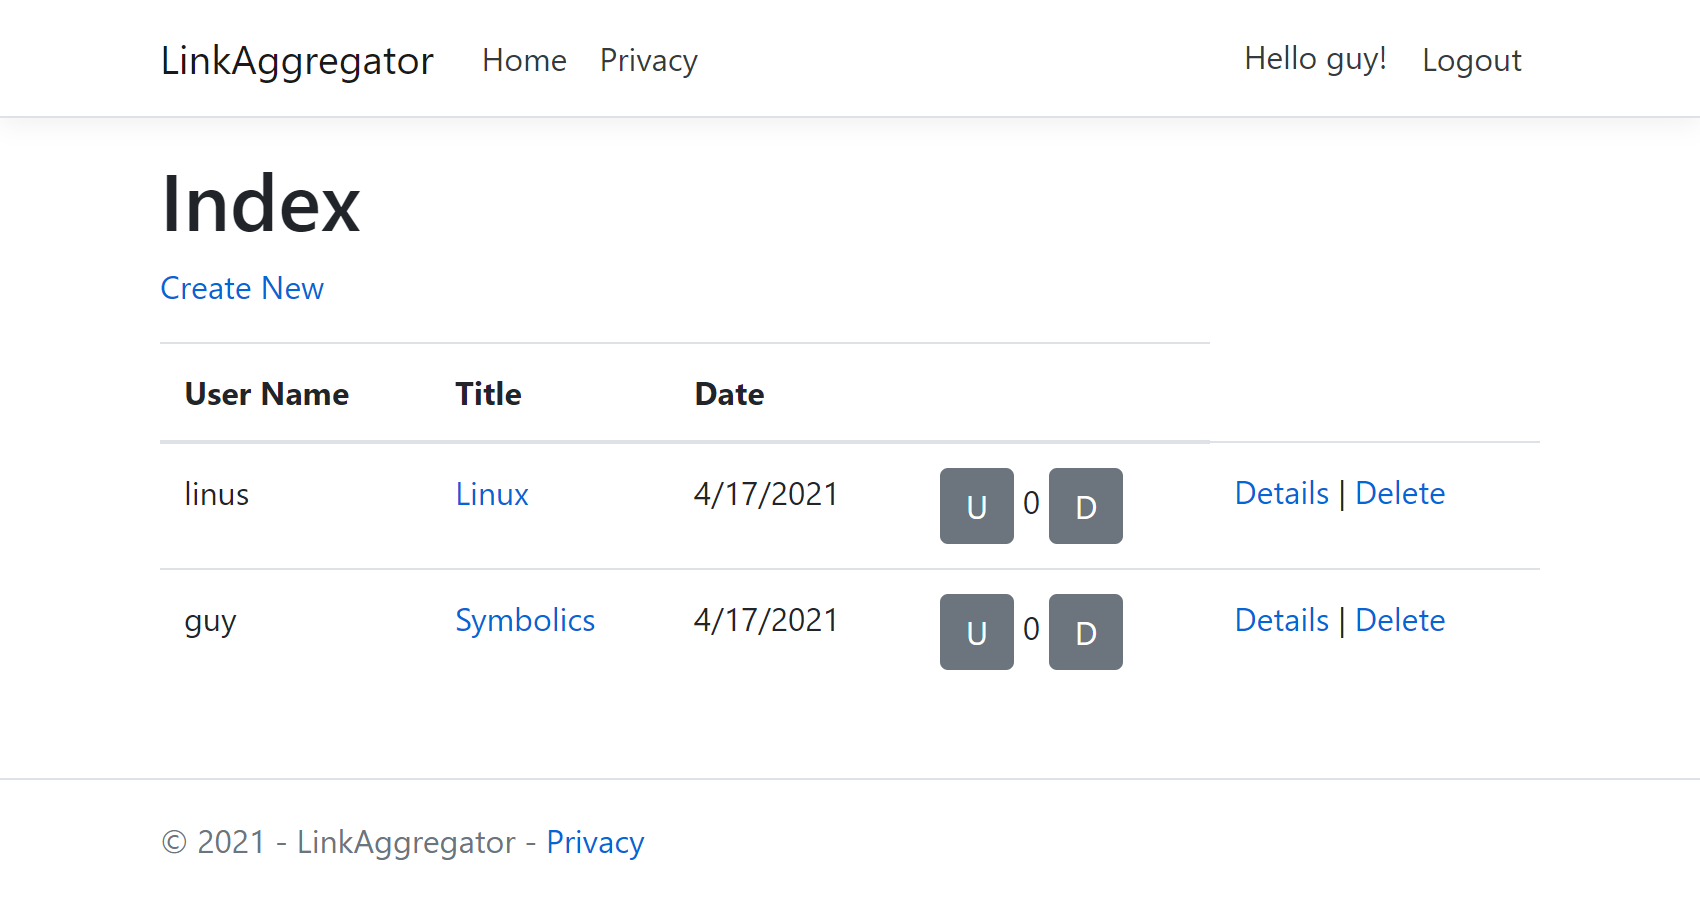
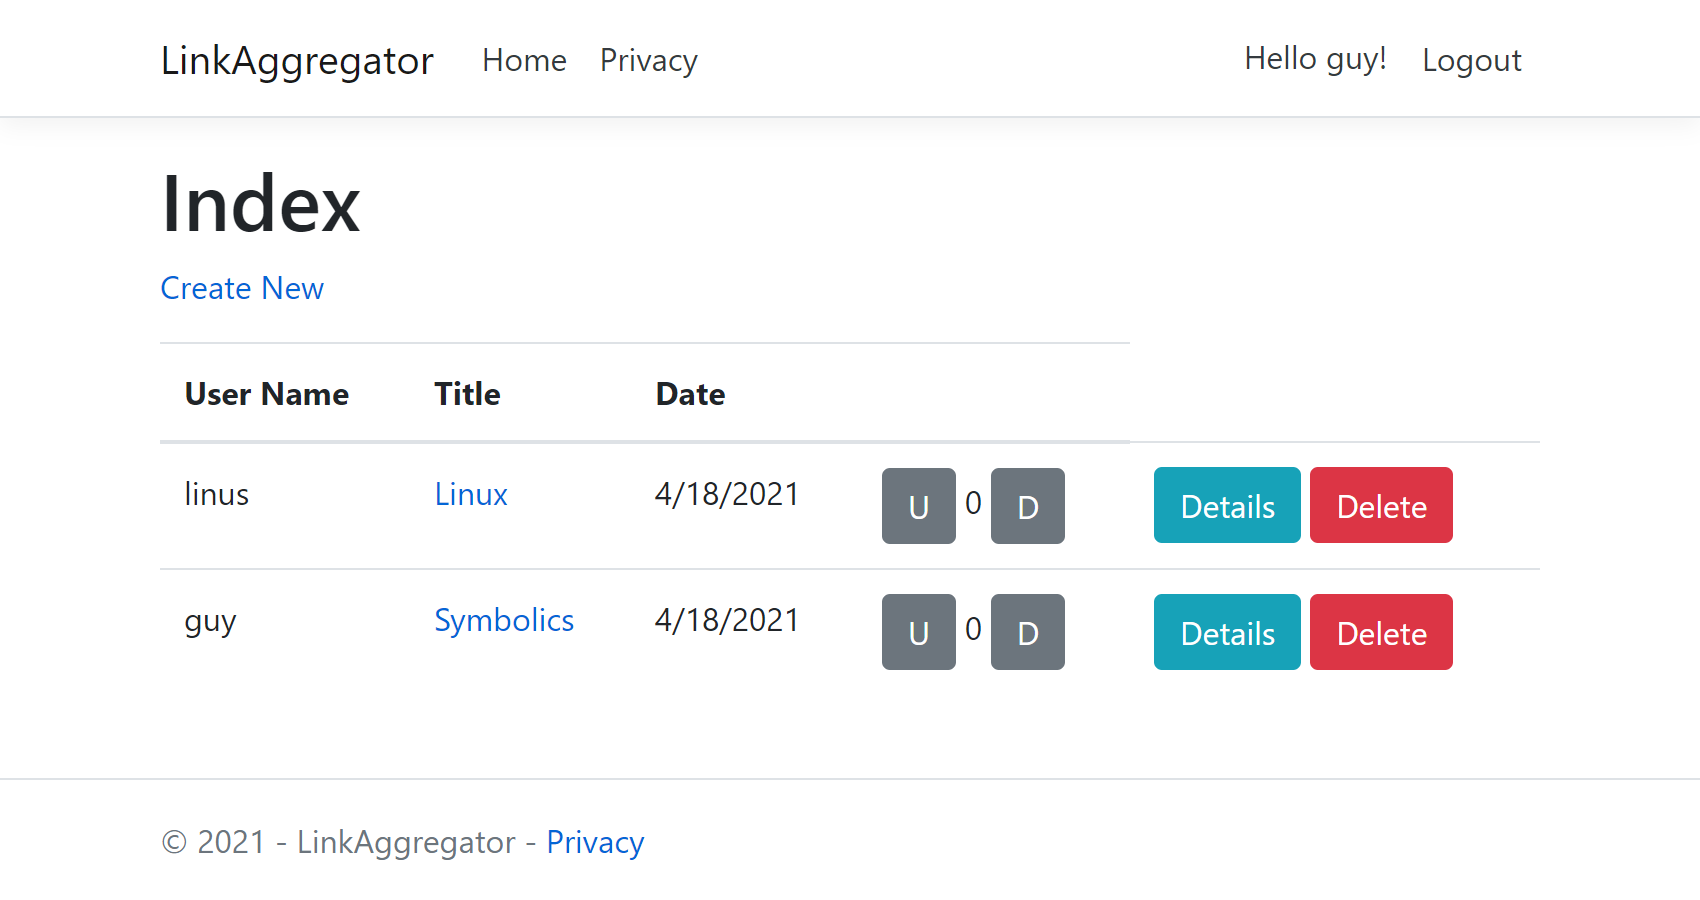
Style buttons

diff --git a/LinkAggregatorTutorial.md b/LinkAggregatorTutorial.md
@@ -1196,6 +1196,97 @@ index 320174c..a52f0a9 100644
 ```
 
     git add . ; git commit --message 'Pages\Links\Index.cshtml - indicate if user voted'
+
+----------------------------------------------------------------------
+
+# Editing links
+
+Some link aggregation sites do not allow users to edit links after they've been submitted.
+Let's set this up now.
+
+Let's make it so that POST submissions for editing are ignored:
+
+```diff 
+diff --git a/Pages/Links/Edit.cshtml.cs b/Pages/Links/Edit.cshtml.cs
+index 5b66d5f..e1d35ee 100644
+--- a/Pages/Links/Edit.cshtml.cs
++++ b/Pages/Links/Edit.cshtml.cs
+@@ -43,6 +43,8 @@ namespace LinkAggregator.Pages.Links
+         // For more details, see https://aka.ms/RazorPagesCRUD.
+         public async Task<IActionResult> OnPostAsync()
+         {
++            return RedirectToPage("./Index");
++
+             if (!ModelState.IsValid)
+             {
+                 return Page();
+
+```
+
+With the following change, if the user access the 'Edit' endpoint, they'll be redirected to the index page:
+
+```diff 
+diff --git a/Pages/Links/Edit.cshtml.cs b/Pages/Links/Edit.cshtml.cs
+index 5b66d5f..443a79a 100644
+--- a/Pages/Links/Edit.cshtml.cs
++++ b/Pages/Links/Edit.cshtml.cs
+@@ -25,6 +25,8 @@ namespace LinkAggregator.Pages.Links
+ 
+         public async Task<IActionResult> OnGetAsync(int? id)
+         {
++            return RedirectToPage("./Index");
++
+             if (id == null)
+             {
+                 return NotFound();
+
+```
+
+Finally, let's remove the 'Edit' link
+
+```diff 
+diff --git a/Pages/Links/Index.cshtml b/Pages/Links/Index.cshtml
+index a52f0a9..6c58122 100644
+--- a/Pages/Links/Index.cshtml
++++ b/Pages/Links/Index.cshtml
+@@ -59,7 +59,6 @@
+             </td>
+ 
+             <td>
+-                <a asp-page="./Edit" asp-route-id="@link.Id">Edit</a> |
+                 <a asp-page="./Details" asp-route-id="@link.Id">Details</a> |
+                 <a asp-page="./Delete" asp-route-id="@link.Id">Delete</a>
+             </td>
+
+```
+
+    git add . ; git commit --message 'Users can only submit links'
+
+----------------------------------------------------------------------
+
+Let's style the buttons on the index page
+
+```diff 
+diff --git a/Pages/Links/Index.cshtml b/Pages/Links/Index.cshtml
+index 6c58122..abebd33 100644
+--- a/Pages/Links/Index.cshtml
++++ b/Pages/Links/Index.cshtml
+@@ -59,8 +59,8 @@
+             </td>
+ 
+             <td>
+-                <a asp-page="./Details" asp-route-id="@link.Id">Details</a> |
+-                <a asp-page="./Delete" asp-route-id="@link.Id">Delete</a>
++                <a class="btn btn-info" asp-page="./Details" asp-route-id="@link.Id">Details</a>
++                <a class="btn btn-danger" asp-page="./Delete" asp-route-id="@link.Id">Delete</a>
+             </td>
+         </tr>
+ }
+
+```
+
+    git add . ; git commit --message 'Index page - style buttons'
+
 ----------------------------------------------------------------------
 
 # Test the project with Canopy
@@ -1368,6 +1459,10 @@ In one PowerShell window, run the LinkAggregator app:
 In another PowerShell window, run the tests:
 
     dotnet run --project .\Test\Test.fsproj
+
+----------------------------------------------------------------------
+
+
 
 
 
